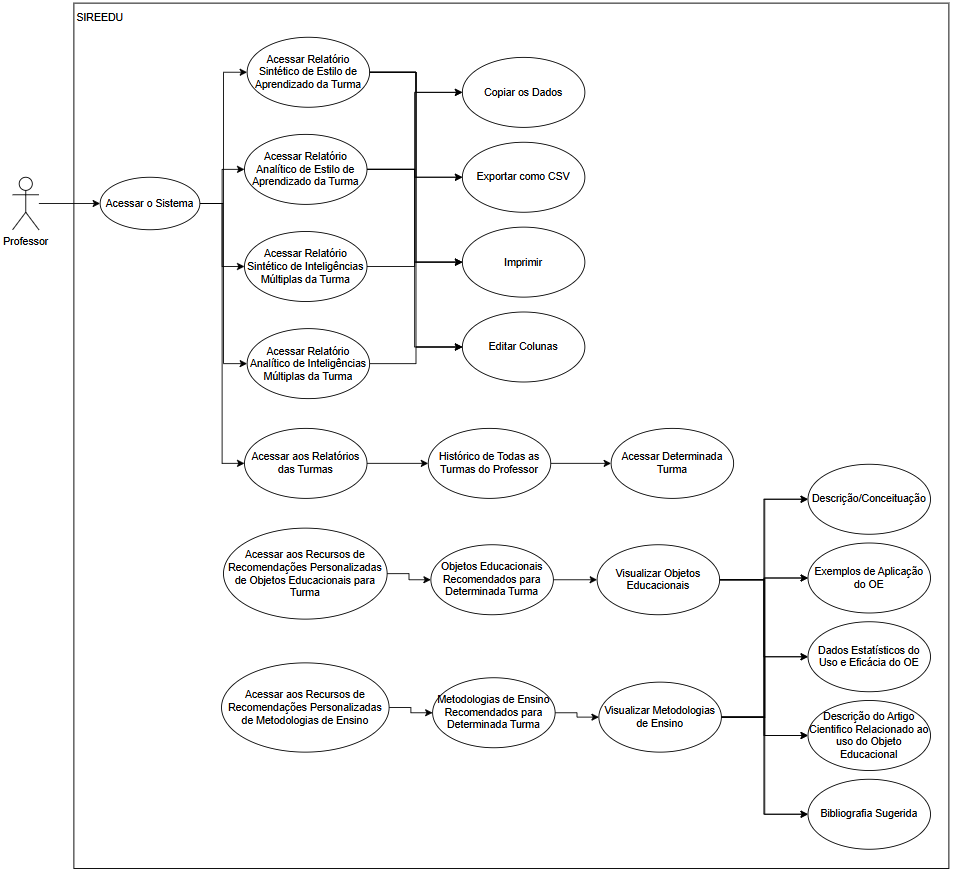
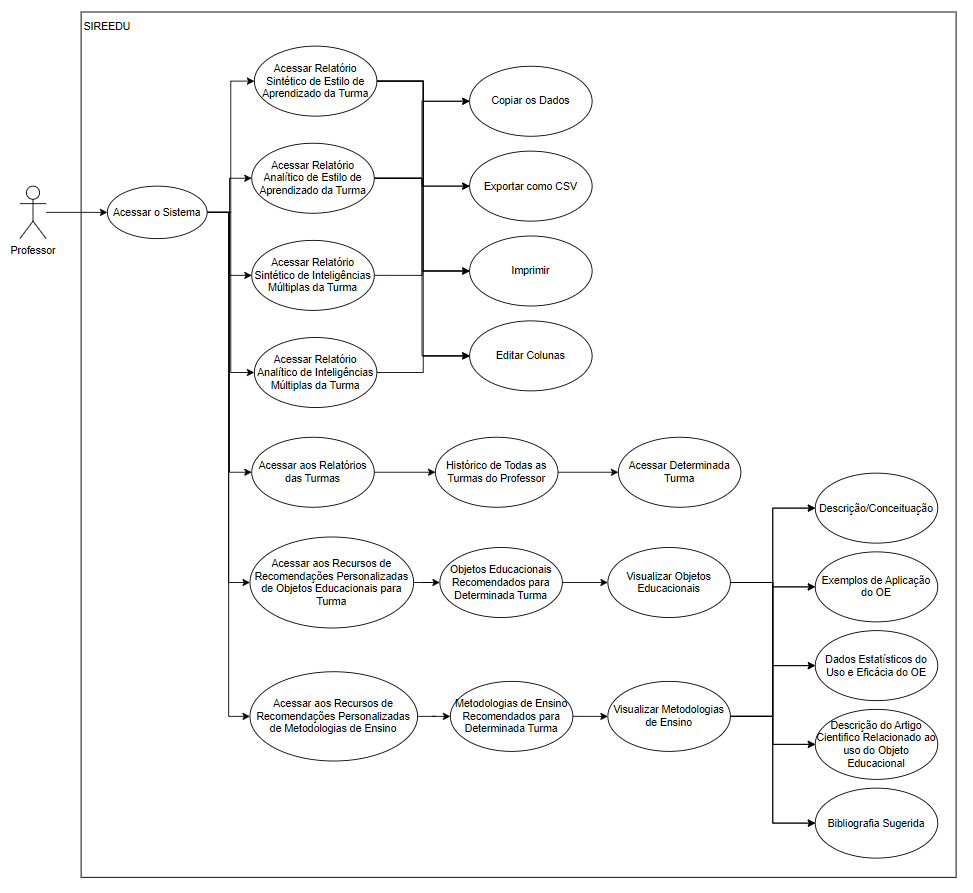
Update diagrama caso de uso

diff --git a/_docs/09-casodeuso.md b/_docs/09-casodeuso.md
@@ -17,7 +17,7 @@ toc: true
 ### Visualizar os Resultados dos Questionários
 ![resultados](/assets/images/resultquestionario.png)
 
-### Visualizar os Objetos Educacionais
+### Visualizar as Recomendações de Objetos Educacionais
 ![resultados](/assets/images/visualizaroe.png)
 
 ### Visualizar os Resultados das Turmas Cadastradas
